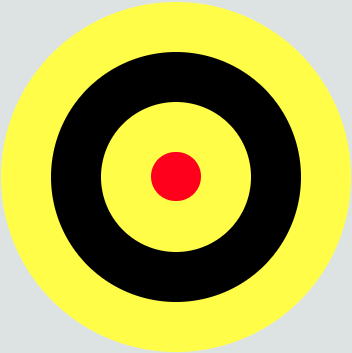
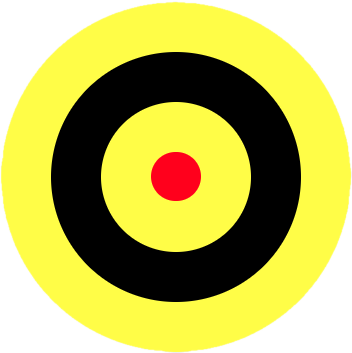
added images in train component, trimmed white space off edges

Changed region(s): [[0.0, 0.0, 1.0, 1.0]]

diff --git a/src/components/Train/Train.jsx b/src/components/Train/Train.jsx
@@ -75,16 +75,64 @@ export default function Train() {
                       columnSpacing={{ xs: 1, sm: 2, md: 3 }}
                     >
                       <Grid item xs={6}>
-                        <Item elevation={4}>Game 1</Item>
+                        <Item elevation={4}>
+                          <Typography>
+                            <img
+                              id="three-ring-game"
+                              src="images/three-ring.png"
+                              alt="A Three Ring Target"
+                              onClick={() => {
+                                dispatch({ type: "ADD_GAME" });
+                                history.push("/3-ring");
+                              }}
+                            ></img>
+                          </Typography>
+                        </Item>
                       </Grid>
                       <Grid item xs={6}>
-                        <Item elevation={4}>Game 2</Item>
+                        <Item elevation={4}>
+                          <Typography>
+                            <img
+                              id="four-ring-game"
+                              src="images/four-ring.png"
+                              alt="A Four Ring Target"
+                              onClick={() => {
+                                dispatch({ type: "ADD_GAME" });
+                                history.push("/4-ring");
+                              }}
+                            ></img>
+                          </Typography>
+                        </Item>
                       </Grid>
                       <Grid item xs={6}>
-                        <Item elevation={4}>Game 3</Item>
+                        <Item elevation={4}>
+                          <Typography>
+                            <img
+                              id="five-ring-game"
+                              src="images/five-ring.png"
+                              alt="A Five Ring Target"
+                              onClick={() => {
+                                dispatch({ type: "ADD_GAME" });
+                                history.push("/5-ring");
+                              }}
+                            ></img>{" "}
+                          </Typography>
+                        </Item>
                       </Grid>
                       <Grid item xs={6}>
-                        <Item elevation={4}>Game 4</Item>
+                        <Item elevation={4}>
+                          <Typography>
+                            <img
+                              id="trap-game"
+                              src="images/clay.png"
+                              alt="A Trap Clay Target, Shattering"
+                              onClick={() => {
+                                dispatch({ type: "ADD_GAME" });
+                                history.push("/trap");
+                              }}
+                            ></img>{" "}
+                          </Typography>
+                        </Item>
                       </Grid>
                     </Grid>
                   </Box>

diff --git a/src/components/SuccessPage/SuccessPage.jsx b/src/components/SuccessPage/SuccessPage.jsx
@@ -21,16 +21,6 @@ import CelebrationIcon from "@mui/icons-material/Celebration";
 
 export default function SuccessPage() {
   const history = useHistory();
-  
-  const rounds = useSelector((store) => store.roundReducer);
-  console.log("ROUNDS ARE:", rounds);
-
-  const scores = useSelector((store) => store.scoresReducer);
-  console.log("SCORES in SuccessPage: ", scores);
-
-  const bestRoundScore = useSelector((store) => store.bestRound);
-  console.log("BEST SCORE = ", bestRoundScore);
-  const finalGameScore = bestRoundScore[0].total_game_score;
 
   return (
     <div>
@@ -41,7 +31,7 @@ export default function SuccessPage() {
             <CelebrationIcon /> Congratulations! <CelebrationIcon />
           </Typography>
           <Typography variant="h5" color="textSecondary" component="p">
-            Your score is: {finalGameScore}
+            Your score is: 
           </Typography>
           <Card style={{ width: "80%", margin: "0 auto" }}>
             <CardContent>
@@ -54,15 +44,15 @@ export default function SuccessPage() {
                     </TableRow>
                   </TableHead>
                   <TableBody>
-                    {rounds.map((round, i) => (
-                      <TableRow key={i}>
-                        <TableCell># {round.round_number}</TableCell>
+                   
+                      <TableRow >
+                        <TableCell># </TableCell>
                         <TableCell>
                           {/* {roundsMatchGameId[i] &&
                             `${roundsMatchGameId[i].round_score} Points`} */}
                         </TableCell>
                       </TableRow>
-                     ))}
+                  
                   </TableBody>
                 </Table>
               </TableContainer>
